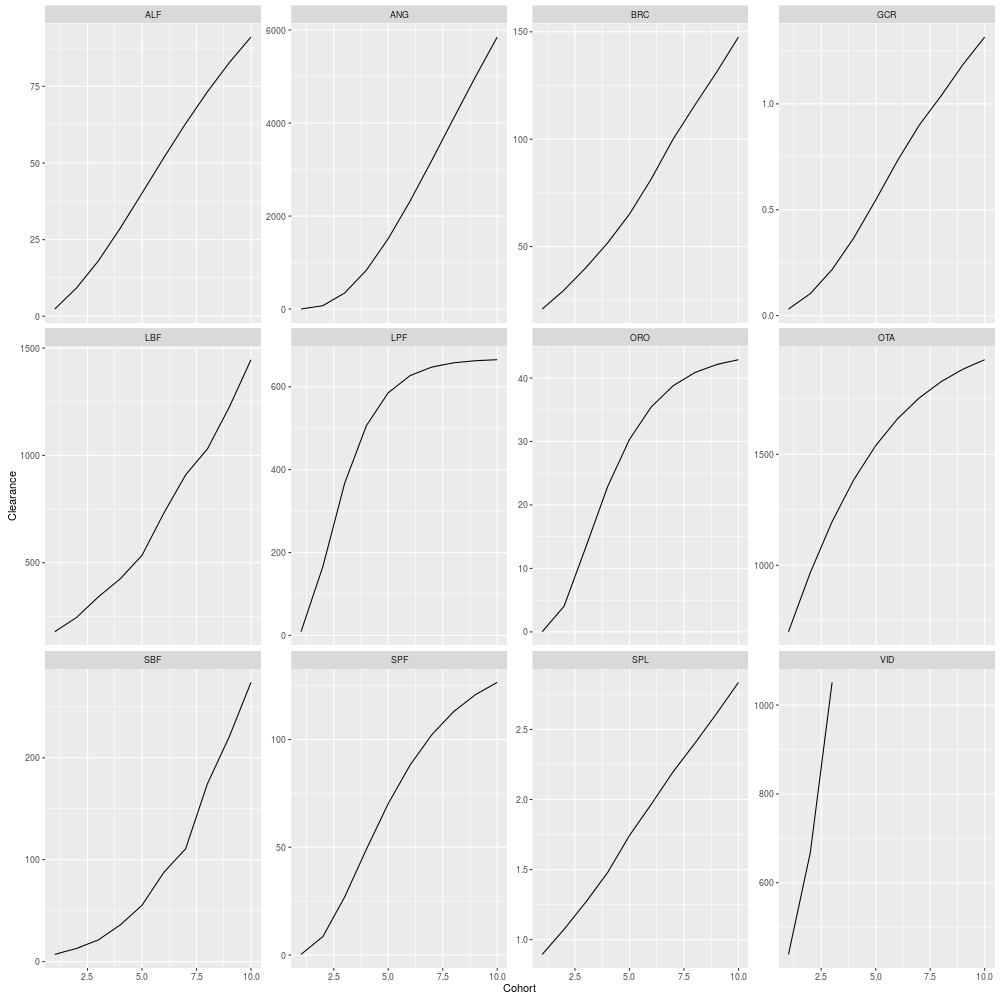
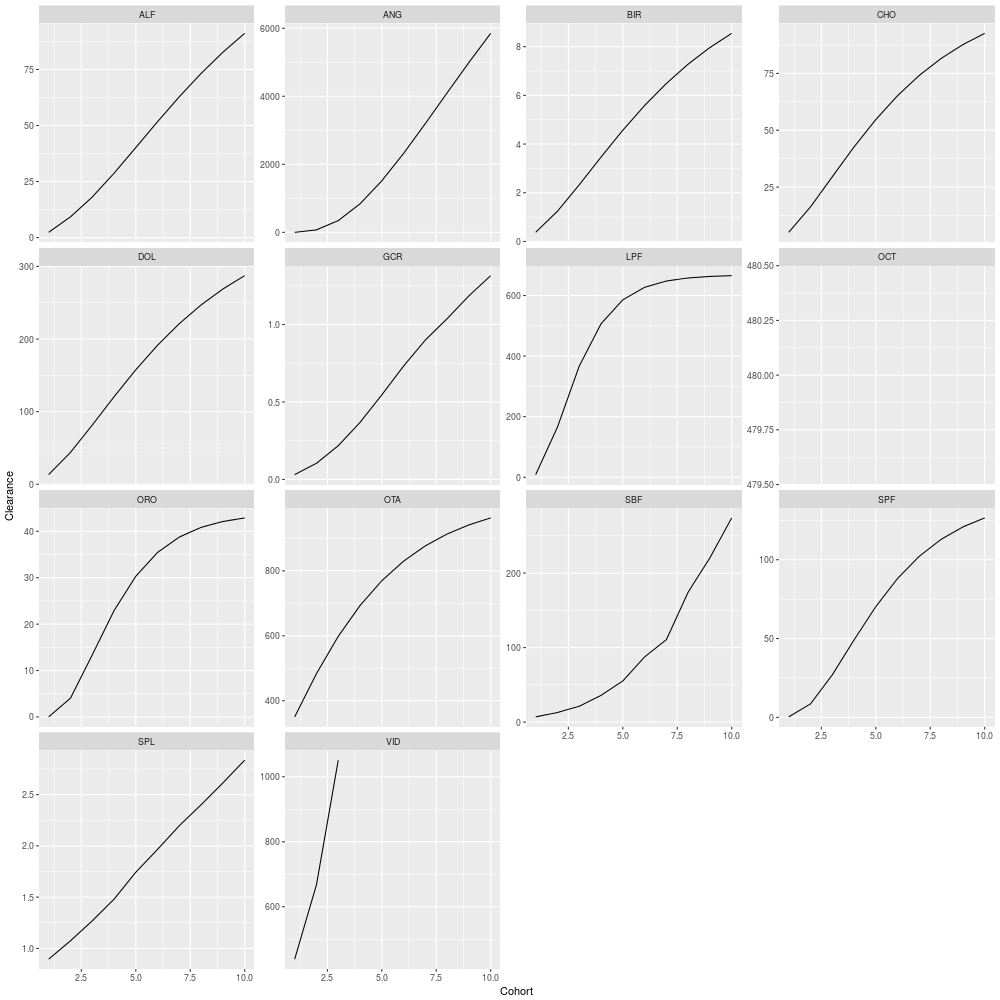
Fixed mum and clearance Equation and calculation for new age structured groups

diff --git a/MandM/Methods.html b/MandM/Methods.html
@@ -7,7 +7,7 @@
 <meta http-equiv="Content-Type" content="text/html;charset=utf-8"/>
 <meta name="title" content="Materials and Methods for the JFRE Atlantis model"/>
 <meta name="generator" content="Org-mode"/>
-<meta name="generated" content="2017-02-08T17:07+1100"/>
+<meta name="generated" content="2017-02-09T09:21+1100"/>
 <meta name="author" content="Javier Porobic"/>
 <meta name="description" content="This document Contain all the steps that I took to build the Atlantis Model for the Juan Fernandez Ridge Ecosystem"/>
 <meta name="keywords" content="Juan Fernandez Ridge ecosystem, Atlantis, Ecosystem-based fisheries management"/>
@@ -3087,7 +3087,6 @@ print(b)
 </pre>
 
 <table border="2" cellspacing="0" cellpadding="6" rules="groups" frame="hsides">
-<caption>Clearance by cohort for some functional groups [m3d-1]</caption>
 <colgroup><col class="left" /><col class="right" /><col class="right" /><col class="right" /><col class="right" /><col class="right" /><col class="right" /><col class="right" /><col class="right" /><col class="right" /><col class="right" />
 </colgroup>
 <thead>
@@ -3096,15 +3095,17 @@ print(b)
 <tbody>
 <tr><td class="left">ALF</td><td class="right">2.36</td><td class="right">9.26</td><td class="right">18.09</td><td class="right">28.70</td><td class="right">40.15</td><td class="right">51.71</td><td class="right">62.85</td><td class="right">73.22</td><td class="right">82.70</td><td class="right">91.10</td></tr>
 <tr><td class="left">ANG</td><td class="right">0.60</td><td class="right">72.60</td><td class="right">344.13</td><td class="right">837.05</td><td class="right">1514.40</td><td class="right">2320.14</td><td class="right">3198.52</td><td class="right">4102.24</td><td class="right">4994.94</td><td class="right">5850.78</td></tr>
+<tr><td class="left">BIR</td><td class="right">0.38</td><td class="right">1.24</td><td class="right">2.33</td><td class="right">3.47</td><td class="right">4.57</td><td class="right">5.58</td><td class="right">6.49</td><td class="right">7.28</td><td class="right">7.96</td><td class="right">8.55</td></tr>
 <tr><td class="left">BRC</td><td class="right">20.91</td><td class="right">29.75</td><td class="right">40.15</td><td class="right">51.72</td><td class="right">65.09</td><td class="right">81.46</td><td class="right">99.99</td><td class="right">115.88</td><td class="right">131.25</td><td class="right">147.57</td></tr>
-<tr><td class="left">CET</td><td class="right">196608.00</td><td class="right"></td><td class="right"></td><td class="right"></td><td class="right"></td><td class="right"></td><td class="right"></td><td class="right"></td><td class="right"></td><td class="right"></td></tr>
-<tr><td class="left">DOL</td><td class="right">32256.00</td><td class="right"></td><td class="right"></td><td class="right"></td><td class="right"></td><td class="right"></td><td class="right"></td><td class="right"></td><td class="right"></td><td class="right"></td></tr>
+<tr><td class="left">CET</td><td class="right">3111.88</td><td class="right">3599.63</td><td class="right">3851.93</td><td class="right">3978.84</td><td class="right">4041.87</td><td class="right">4072.98</td><td class="right">4088.28</td><td class="right">4095.80</td><td class="right">4099.50</td><td class="right">4101.31</td></tr>
+<tr><td class="left">CHO</td><td class="right">5.10</td><td class="right">16.28</td><td class="right">29.51</td><td class="right">42.66</td><td class="right">54.70</td><td class="right">65.23</td><td class="right">74.16</td><td class="right">81.58</td><td class="right">87.67</td><td class="right">92.62</td></tr>
+<tr><td class="left">DOL</td><td class="right">13.39</td><td class="right">43.88</td><td class="right">81.51</td><td class="right">120.50</td><td class="right">157.67</td><td class="right">191.46</td><td class="right">221.26</td><td class="right">246.99</td><td class="right">268.89</td><td class="right">287.32</td></tr>
 <tr><td class="left">GCR</td><td class="right">0.03</td><td class="right">0.10</td><td class="right">0.22</td><td class="right">0.37</td><td class="right">0.55</td><td class="right">0.73</td><td class="right">0.90</td><td class="right">1.04</td><td class="right">1.19</td><td class="right">1.32</td></tr>
 <tr><td class="left">LBF</td><td class="right">178.39</td><td class="right">244.89</td><td class="right">340.76</td><td class="right">424.55</td><td class="right">534.44</td><td class="right">730.52</td><td class="right">908.95</td><td class="right">1029.94</td><td class="right">1223.99</td><td class="right">1446.00</td></tr>
 <tr><td class="left">LPF</td><td class="right">8.85</td><td class="right">165.77</td><td class="right">367.12</td><td class="right">506.61</td><td class="right">585.71</td><td class="right">627.02</td><td class="right">647.81</td><td class="right">658.09</td><td class="right">663.14</td><td class="right">665.60</td></tr>
 <tr><td class="left">OCT</td><td class="right">480.00</td><td class="right"></td><td class="right"></td><td class="right"></td><td class="right"></td><td class="right"></td><td class="right"></td><td class="right"></td><td class="right"></td><td class="right"></td></tr>
 <tr><td class="left">ORO</td><td class="right">0.02</td><td class="right">4.04</td><td class="right">13.37</td><td class="right">22.90</td><td class="right">30.31</td><td class="right">35.44</td><td class="right">38.76</td><td class="right">40.85</td><td class="right">42.12</td><td class="right">42.88</td></tr>
-<tr><td class="left">OTA</td><td class="right">700.73</td><td class="right">967.05</td><td class="right">1196.74</td><td class="right">1386.56</td><td class="right">1539.28</td><td class="right">1660.00</td><td class="right">1754.27</td><td class="right">1827.23</td><td class="right">1883.37</td><td class="right">1926.36</td></tr>
+<tr><td class="left">OTA</td><td class="right">350.36</td><td class="right">483.53</td><td class="right">598.37</td><td class="right">693.28</td><td class="right">769.64</td><td class="right">830.00</td><td class="right">877.13</td><td class="right">913.62</td><td class="right">941.69</td><td class="right">963.18</td></tr>
 <tr><td class="left">SBF</td><td class="right">7.06</td><td class="right">12.90</td><td class="right">21.29</td><td class="right">35.90</td><td class="right">55.23</td><td class="right">87.47</td><td class="right">110.62</td><td class="right">174.41</td><td class="right">220.49</td><td class="right">274.03</td></tr>
 <tr><td class="left">SPF</td><td class="right">0.31</td><td class="right">8.53</td><td class="right">26.92</td><td class="right">49.12</td><td class="right">70.26</td><td class="right">88.13</td><td class="right">102.25</td><td class="right">112.94</td><td class="right">120.82</td><td class="right">126.54</td></tr>
 <tr><td class="left">SPL</td><td class="right">0.90</td><td class="right">1.07</td><td class="right">1.27</td><td class="right">1.48</td><td class="right">1.74</td><td class="right">1.97</td><td class="right">2.20</td><td class="right">2.40</td><td class="right">2.61</td><td class="right">2.84</td></tr>
@@ -3112,15 +3113,9 @@ print(b)
 </tbody>
 </table>
 
+   <img src="file:///home/demiurgo/Documents/PhD/Atlantis_Model/model_JFR/MandM/img/clearance.png" width="600" alt="image" />
+   <br style="clear:both;" />
 
-
-<div class="figure">
-<p><img src="file:///home/demiurgo/Documents/PhD/Atlantis_Model/model_JFR/MandM/img/clearance.png" width="600" alt="image" /></p>
-<p>Clearance value for each Functional groups by cohort</p>
-</div>
-<p>
-    <br style="clear:both;" />
-</p>
 </li>
 </ul>
 <ul>
@@ -3242,7 +3237,6 @@ res         <span style="color: #ff4500; font-weight: bold;">&lt;-</span> list()
                                     AgeClass   = AgeClass))<span style="color: #696969;"># </span><span style="color: #696969;">Number year for earch Age class</span>
 }
 
-
 <span style="color: #696969;">## </span><span style="color: #696969;">Arrangement for the output</span>
 m   <span style="color: #ff4500; font-weight: bold;">&lt;-</span> as.vector(table(data[, 1]))
 out <span style="color: #ff4500; font-weight: bold;">&lt;-</span> matrix(<span style="color: #fffacd; font-weight: bold;">NA</span>, nrow = max(m), ncol = length(m))
@@ -3279,12 +3273,13 @@ print(b)
 <tbody>
 <tr><td class="left">ALF</td><td class="right">0.08</td><td class="right">0.34</td><td class="right">1.06</td><td class="right">1.71</td><td class="right">2.52</td><td class="right">3.51</td><td class="right">4.71</td><td class="right">6.17</td><td class="right">7.90</td><td class="right">10.06</td></tr>
 <tr><td class="left">ANG</td><td class="right">0.00</td><td class="right">0.01</td><td class="right">0.08</td><td class="right">0.18</td><td class="right">0.32</td><td class="right">0.49</td><td class="right">0.71</td><td class="right">0.97</td><td class="right">1.28</td><td class="right">1.65</td></tr>
+<tr><td class="left">BCA</td><td class="right">0.46</td><td class="right"></td><td class="right"></td><td class="right"></td><td class="right"></td><td class="right"></td><td class="right"></td><td class="right"></td><td class="right"></td><td class="right"></td></tr>
 <tr><td class="left">BFF</td><td class="right">0.06</td><td class="right"></td><td class="right"></td><td class="right"></td><td class="right"></td><td class="right"></td><td class="right"></td><td class="right"></td><td class="right"></td><td class="right"></td></tr>
-<tr><td class="left">BIR</td><td class="right">0.60</td><td class="right"></td><td class="right"></td><td class="right"></td><td class="right"></td><td class="right"></td><td class="right"></td><td class="right"></td><td class="right"></td><td class="right"></td></tr>
+<tr><td class="left">BIR</td><td class="right">0.02</td><td class="right">0.21</td><td class="right">0.54</td><td class="right">1.01</td><td class="right">1.62</td><td class="right">2.39</td><td class="right">3.33</td><td class="right">4.49</td><td class="right">5.90</td><td class="right">7.63</td></tr>
 <tr><td class="left">BRC</td><td class="right">0.05</td><td class="right">0.18</td><td class="right">0.52</td><td class="right">0.75</td><td class="right">1.01</td><td class="right">1.31</td><td class="right">1.72</td><td class="right">2.48</td><td class="right">3.18</td><td class="right">3.76</td></tr>
-<tr><td class="left">CET</td><td class="right">446.04</td><td class="right"></td><td class="right"></td><td class="right"></td><td class="right"></td><td class="right"></td><td class="right"></td><td class="right"></td><td class="right"></td><td class="right"></td></tr>
-<tr><td class="left">CHO</td><td class="right">1.13</td><td class="right"></td><td class="right"></td><td class="right"></td><td class="right"></td><td class="right"></td><td class="right"></td><td class="right"></td><td class="right"></td><td class="right"></td></tr>
-<tr><td class="left">DOL</td><td class="right">57.10</td><td class="right"></td><td class="right"></td><td class="right"></td><td class="right"></td><td class="right"></td><td class="right"></td><td class="right"></td><td class="right"></td><td class="right"></td></tr>
+<tr><td class="left">CET</td><td class="right">73.65</td><td class="right">238.04</td><td class="right">1359.33</td><td class="right">2620.55</td><td class="right">5172.94</td><td class="right">10365.79</td><td class="right">20944.64</td><td class="right">42502.78</td><td class="right">86438.54</td><td class="right">175981.86</td></tr>
+<tr><td class="left">CHO</td><td class="right">0.02</td><td class="right">0.11</td><td class="right">0.42</td><td class="right">0.80</td><td class="right">1.29</td><td class="right">1.93</td><td class="right">2.73</td><td class="right">3.73</td><td class="right">5.00</td><td class="right">6.60</td></tr>
+<tr><td class="left">DOL</td><td class="right">0.06</td><td class="right">0.52</td><td class="right">1.33</td><td class="right">2.48</td><td class="right">3.97</td><td class="right">5.84</td><td class="right">8.17</td><td class="right">11.03</td><td class="right">14.54</td><td class="right">18.86</td></tr>
 <tr><td class="left">GCR</td><td class="right">0.01</td><td class="right">0.06</td><td class="right">0.21</td><td class="right">0.41</td><td class="right">0.68</td><td class="right">1.04</td><td class="right">1.54</td><td class="right">2.24</td><td class="right">2.65</td><td class="right">3.47</td></tr>
 <tr><td class="left">LBF</td><td class="right">0.12</td><td class="right">0.56</td><td class="right">0.76</td><td class="right">2.58</td><td class="right">3.12</td><td class="right">3.50</td><td class="right">5.37</td><td class="right">8.86</td><td class="right">8.34</td><td class="right">10.02</td></tr>
 <tr><td class="left">LPF</td><td class="right">0.02</td><td class="right">0.19</td><td class="right">0.56</td><td class="right">1.10</td><td class="right">2.06</td><td class="right">3.96</td><td class="right">7.83</td><td class="right">15.74</td><td class="right">31.99</td><td class="right">65.37</td></tr>
@@ -3296,14 +3291,11 @@ print(b)
 <tr><td class="left">SCR</td><td class="right">1.26</td><td class="right"></td><td class="right"></td><td class="right"></td><td class="right"></td><td class="right"></td><td class="right"></td><td class="right"></td><td class="right"></td><td class="right"></td></tr>
 <tr><td class="left">SPF</td><td class="right">0.01</td><td class="right">0.11</td><td class="right">0.58</td><td class="right">1.23</td><td class="right">2.11</td><td class="right">3.29</td><td class="right">4.91</td><td class="right">7.16</td><td class="right">10.34</td><td class="right">14.86</td></tr>
 <tr><td class="left">SPL</td><td class="right">0.13</td><td class="right">0.37</td><td class="right">1.29</td><td class="right">1.56</td><td class="right">1.72</td><td class="right">2.36</td><td class="right">2.75</td><td class="right">3.51</td><td class="right">3.91</td><td class="right">4.33</td></tr>
-<tr><td class="left">SUR</td><td class="right">0.46</td><td class="right"></td><td class="right"></td><td class="right"></td><td class="right"></td><td class="right"></td><td class="right"></td><td class="right"></td><td class="right"></td><td class="right"></td></tr>
 <tr><td class="left">VID</td><td class="right">0.24</td><td class="right">1.85</td><td class="right">2.43</td><td class="right"></td><td class="right"></td><td class="right"></td><td class="right"></td><td class="right"></td><td class="right"></td><td class="right"></td></tr>
 </tbody>
 </table>
 
-
-
-<div class="figure">
+    <div class="figure">
 <p><img src="img/mum.png" width="600" alt="image" /></p>
 <p>Values of Growth rate for each Vertebrate Functional Group</p>
 </div>
@@ -4944,7 +4936,7 @@ make.init.nc(bgm.file, cum.depths, JFRE.init, JFRE.init.h, nc.file)
 </div>
 
 <div id="postamble">
-<p class="date">Date: 2017-02-08T17:07+1100</p>
+<p class="date">Date: 2017-02-09T09:21+1100</p>
 <p class="author">Author: Javier Porobic</p>
 <p class="creator"><a href="http://orgmode.org">Org</a> version 7.9.3f with <a href="http://www.gnu.org/software/emacs/">Emacs</a> version 24</p>
 <a href="http://validator.w3.org/check?uri=referer">Validate XHTML 1.0</a>
